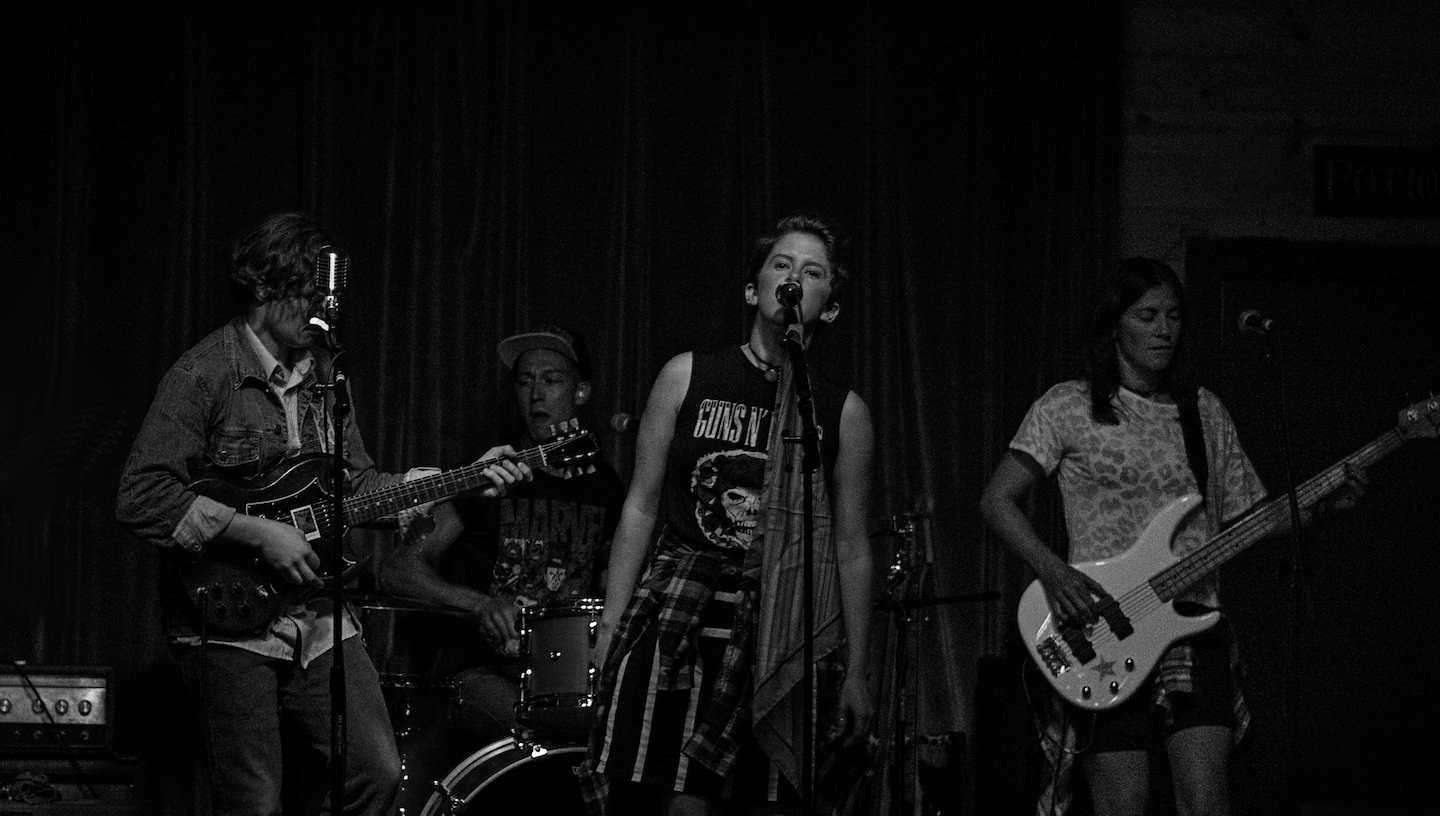
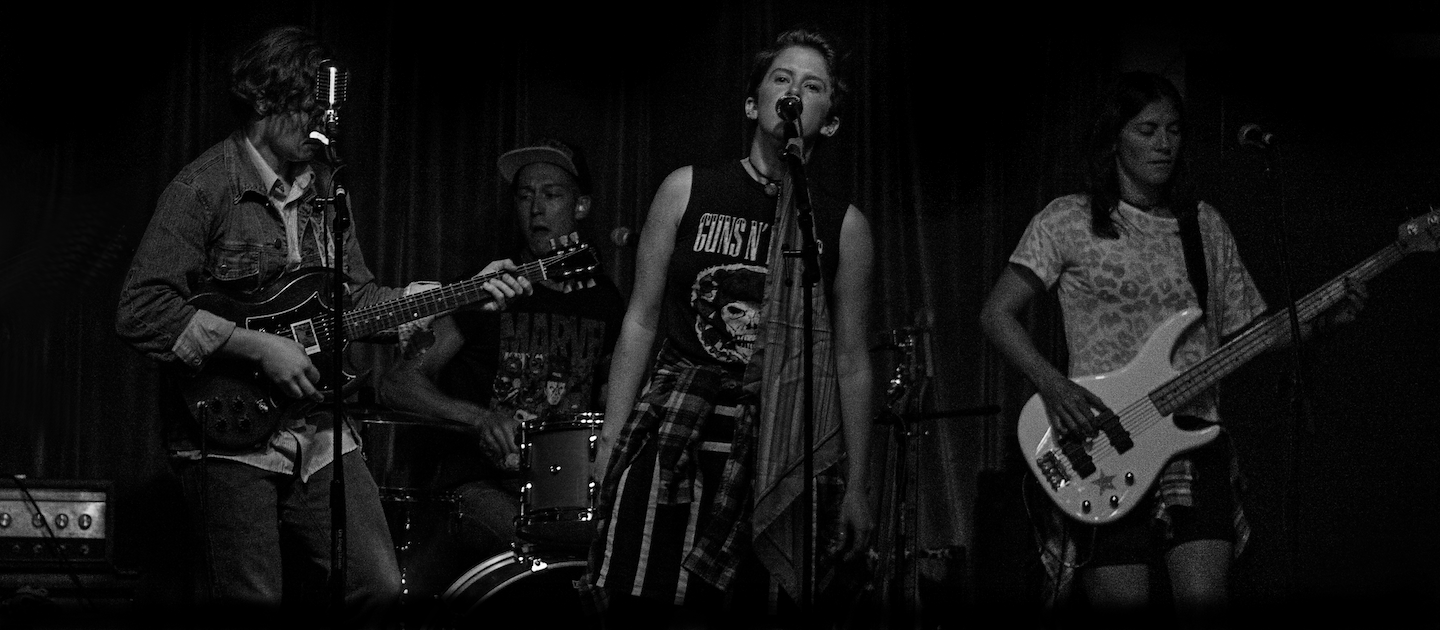
make homepage more responsive

diff --git a/style.css b/style.css
@@ -4,31 +4,49 @@ body {
     margin: 0;
 }
 
+h1 {
+    font-size: 8em;
+    margin-bottom: 0.25em;
+}
+
+h2 {
+    font-size: 6em;
+    margin: 1em 0;
+}
+
 .banner {
     background-color: #000;
     color: white;
     text-align: center;
+    padding-top: 0.1px;
+    padding-bottom: 4em;
+}
+
+.banner > p {
+    font-size: 1.5em;
 }
 
 .section {
     text-align: center;
 }
 
-nav > a {
-    color: white;
-    padding: 0 10px;
-}
-
-nav > a:visited {
-    color: #aaa;
-}
-
-nav > a:hover {
-    color: #666;
-}
-
-nav > a:active {
+a {
+    font-size: 1.5em;
+    margin-bottom: 1em;
+    padding: 0.5em 2em;
+    border-radius: 3px;
+    text-decoration: none;
     color: #444;
+    margin-left: 1em;
+    margin-right: 1em;
+}
+
+a.primary {
+    background-color: #ffd400;
+}
+
+a.secondary {
+    background-color: #ddd;
 }
 
 .required {
@@ -124,4 +142,50 @@ fieldset > label {
 legend {
     padding-left: 0;
     padding-bottom: 3px;
+}
+
+img {
+    width: 100%;
+    margin-bottom: 3em;
+}
+
+.section {
+    margin-top: 100px;
+}
+
+/* 1299 */
+@media (max-width: 980px) {
+    h1 {
+        margin-bottom: 1em;
+    }
+
+    h2 {
+        margin: 2em 0;
+    }
+
+    .banner {
+        padding-bottom: 9em;
+    }
+
+    .banner > img {
+        margin-bottom: 10em;
+    }
+
+    .banner > p {
+        font-size: 2em;
+        margin-top: 2em;
+        margin-bottom: 4em;
+    }
+
+    /* nav { */
+    /*     font-size: 2.5em; */
+    /*     /\* margin: 0 0.75em 2em 0.75em; *\/ */
+    /*     margin-left: auto; */
+    /*     margin-right: auto; */
+    /*     margin-bottom: 3em; */
+    /* } */
+
+    a {
+        font-size: 2.25em;
+    }
 }

diff --git a/index.html b/index.html
@@ -6,14 +6,14 @@
   <body>
     <div class="banner">
       <h1>THE TRASH PANDAS</h1>
-      <nav>
-        <a href="book.html">book us</a> |
-        <a href="subscribe.html">subscribe</a>
-      </nav>
-      <img src="website-banner.png" alt="the trash pandas on stage at shine"/>
       <p>
-        The Trash Pandas are Boulder, Colorado's premier cover band.
+        Boulder, Colorado's premier cover band
       </p>
+      <img src="website-banner.png" alt="the trash pandas on stage at shine"/>
+      <nav>
+        <a class="primary" href="book.html">book us</a>
+        <a class="secondary" href="subscribe.html">subscribe</a>
+      </nav>
     </div>
     <div class="section">
       <h2>Listen</h2>
